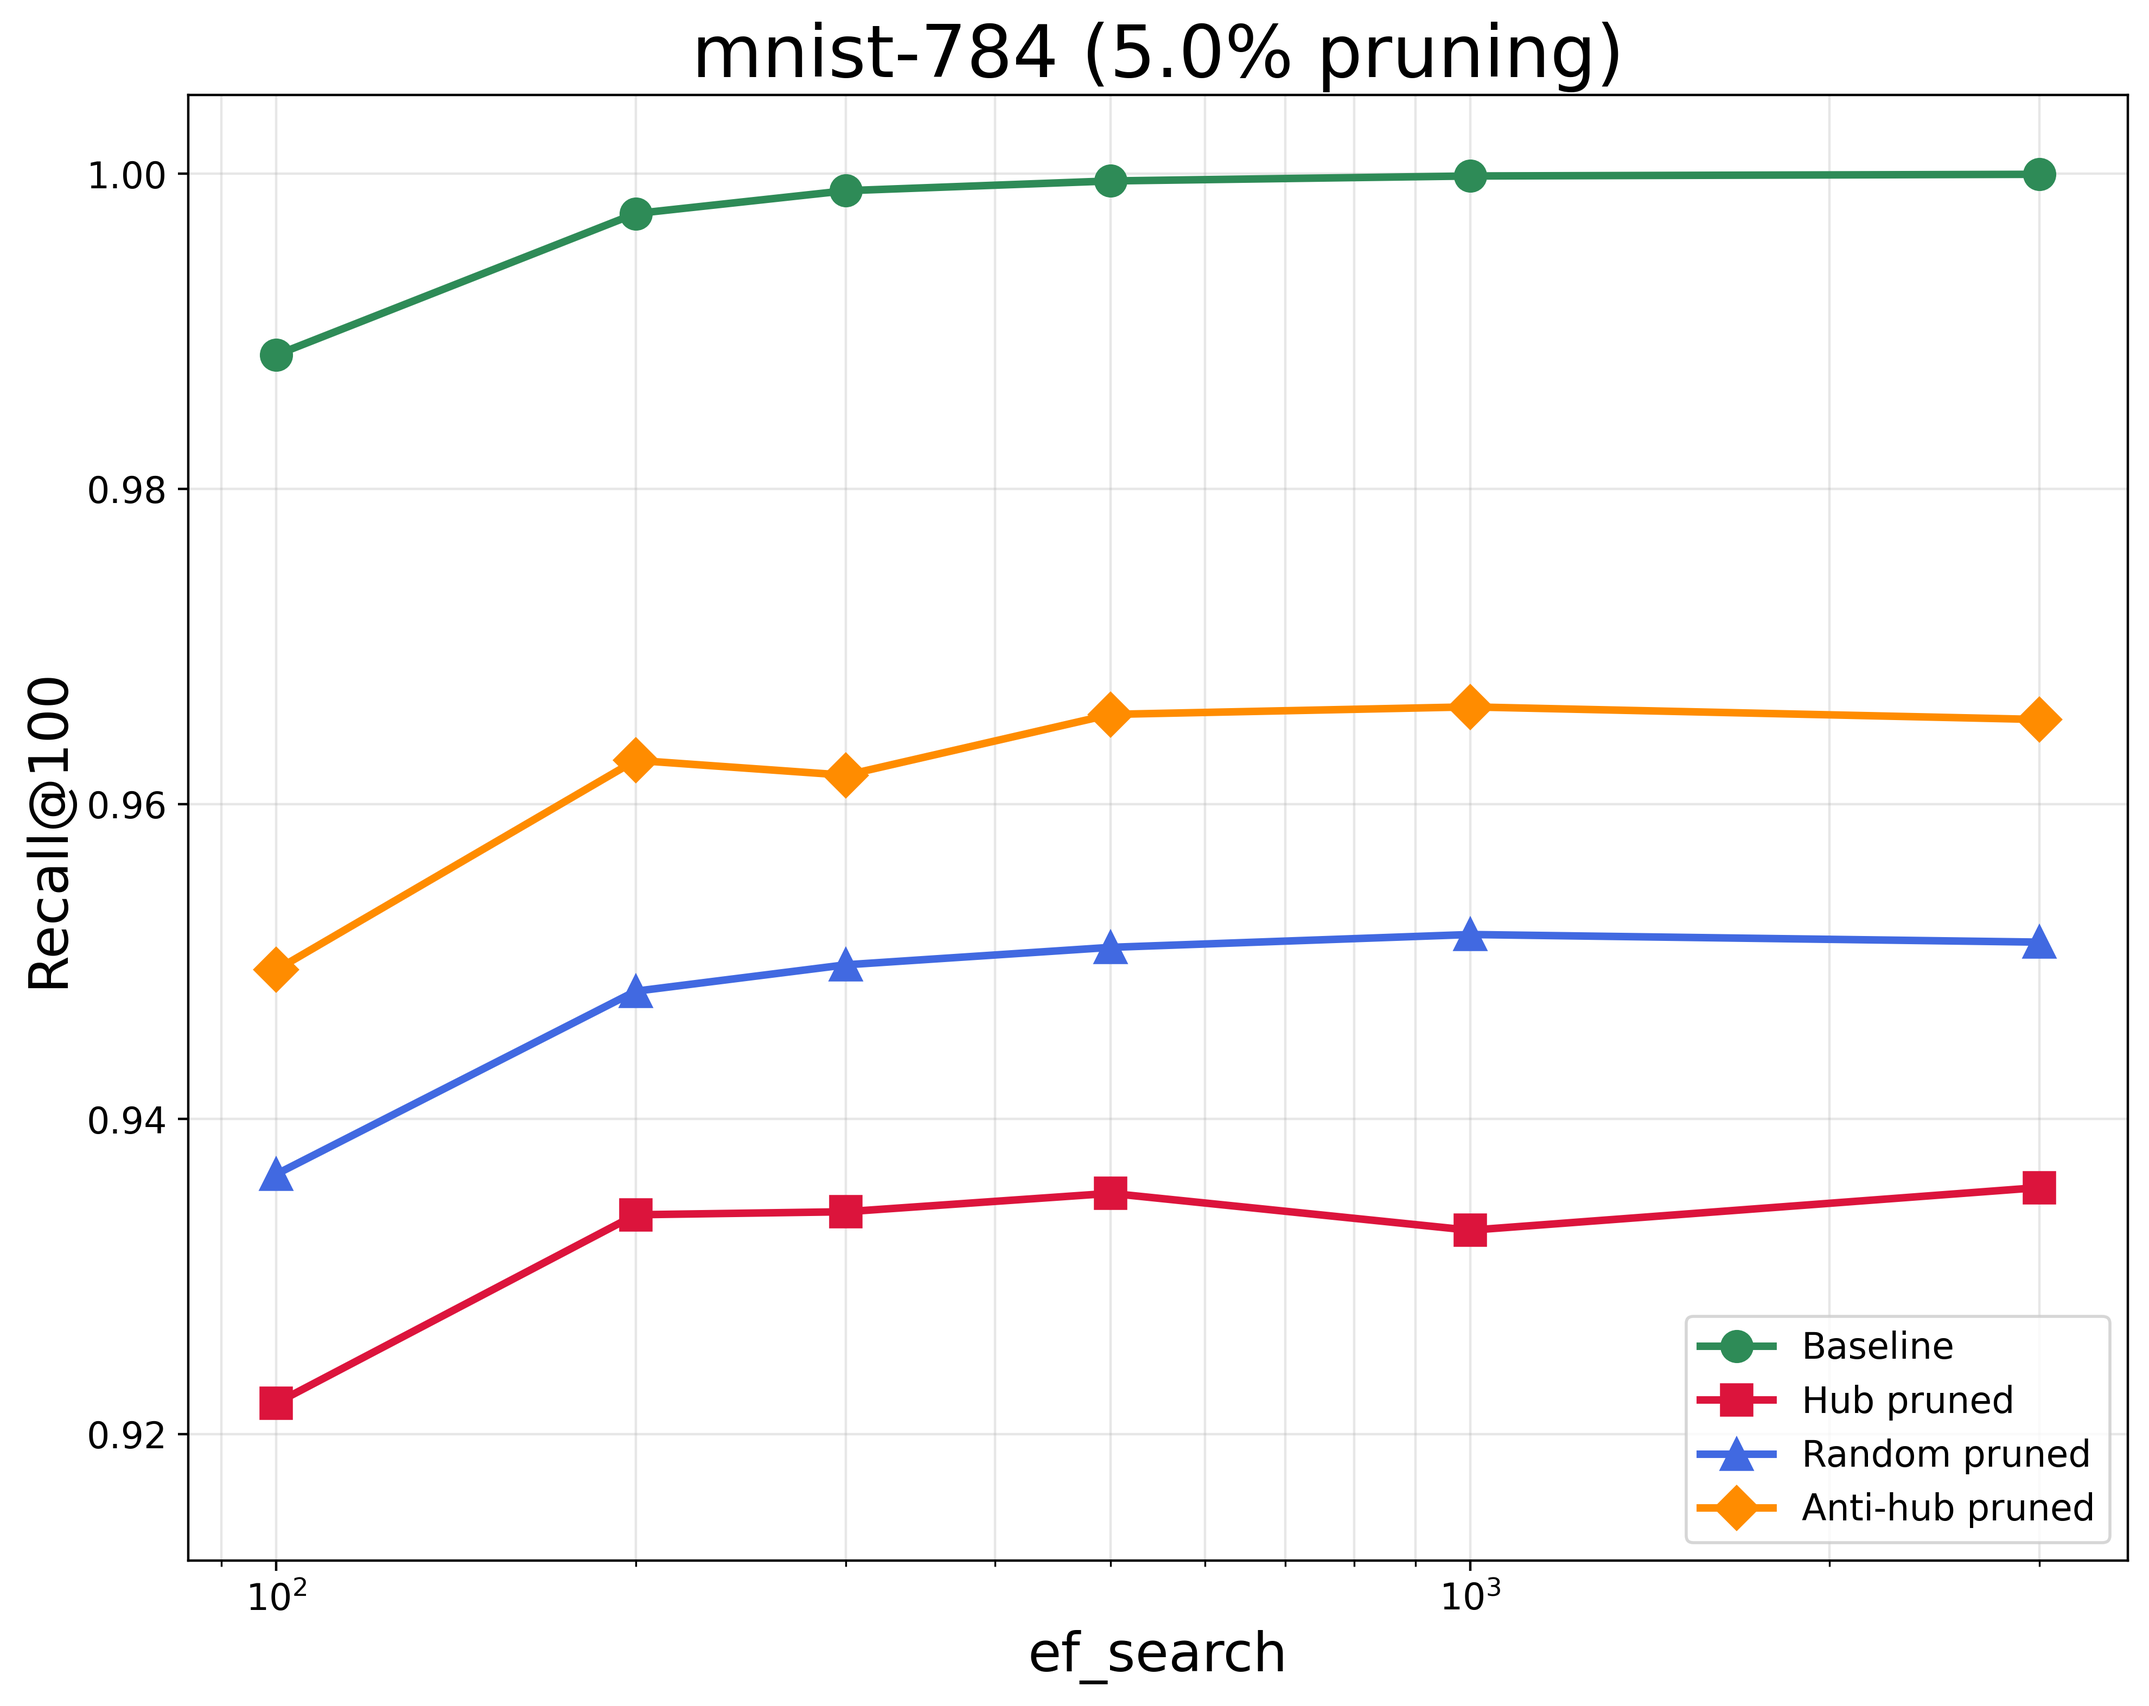
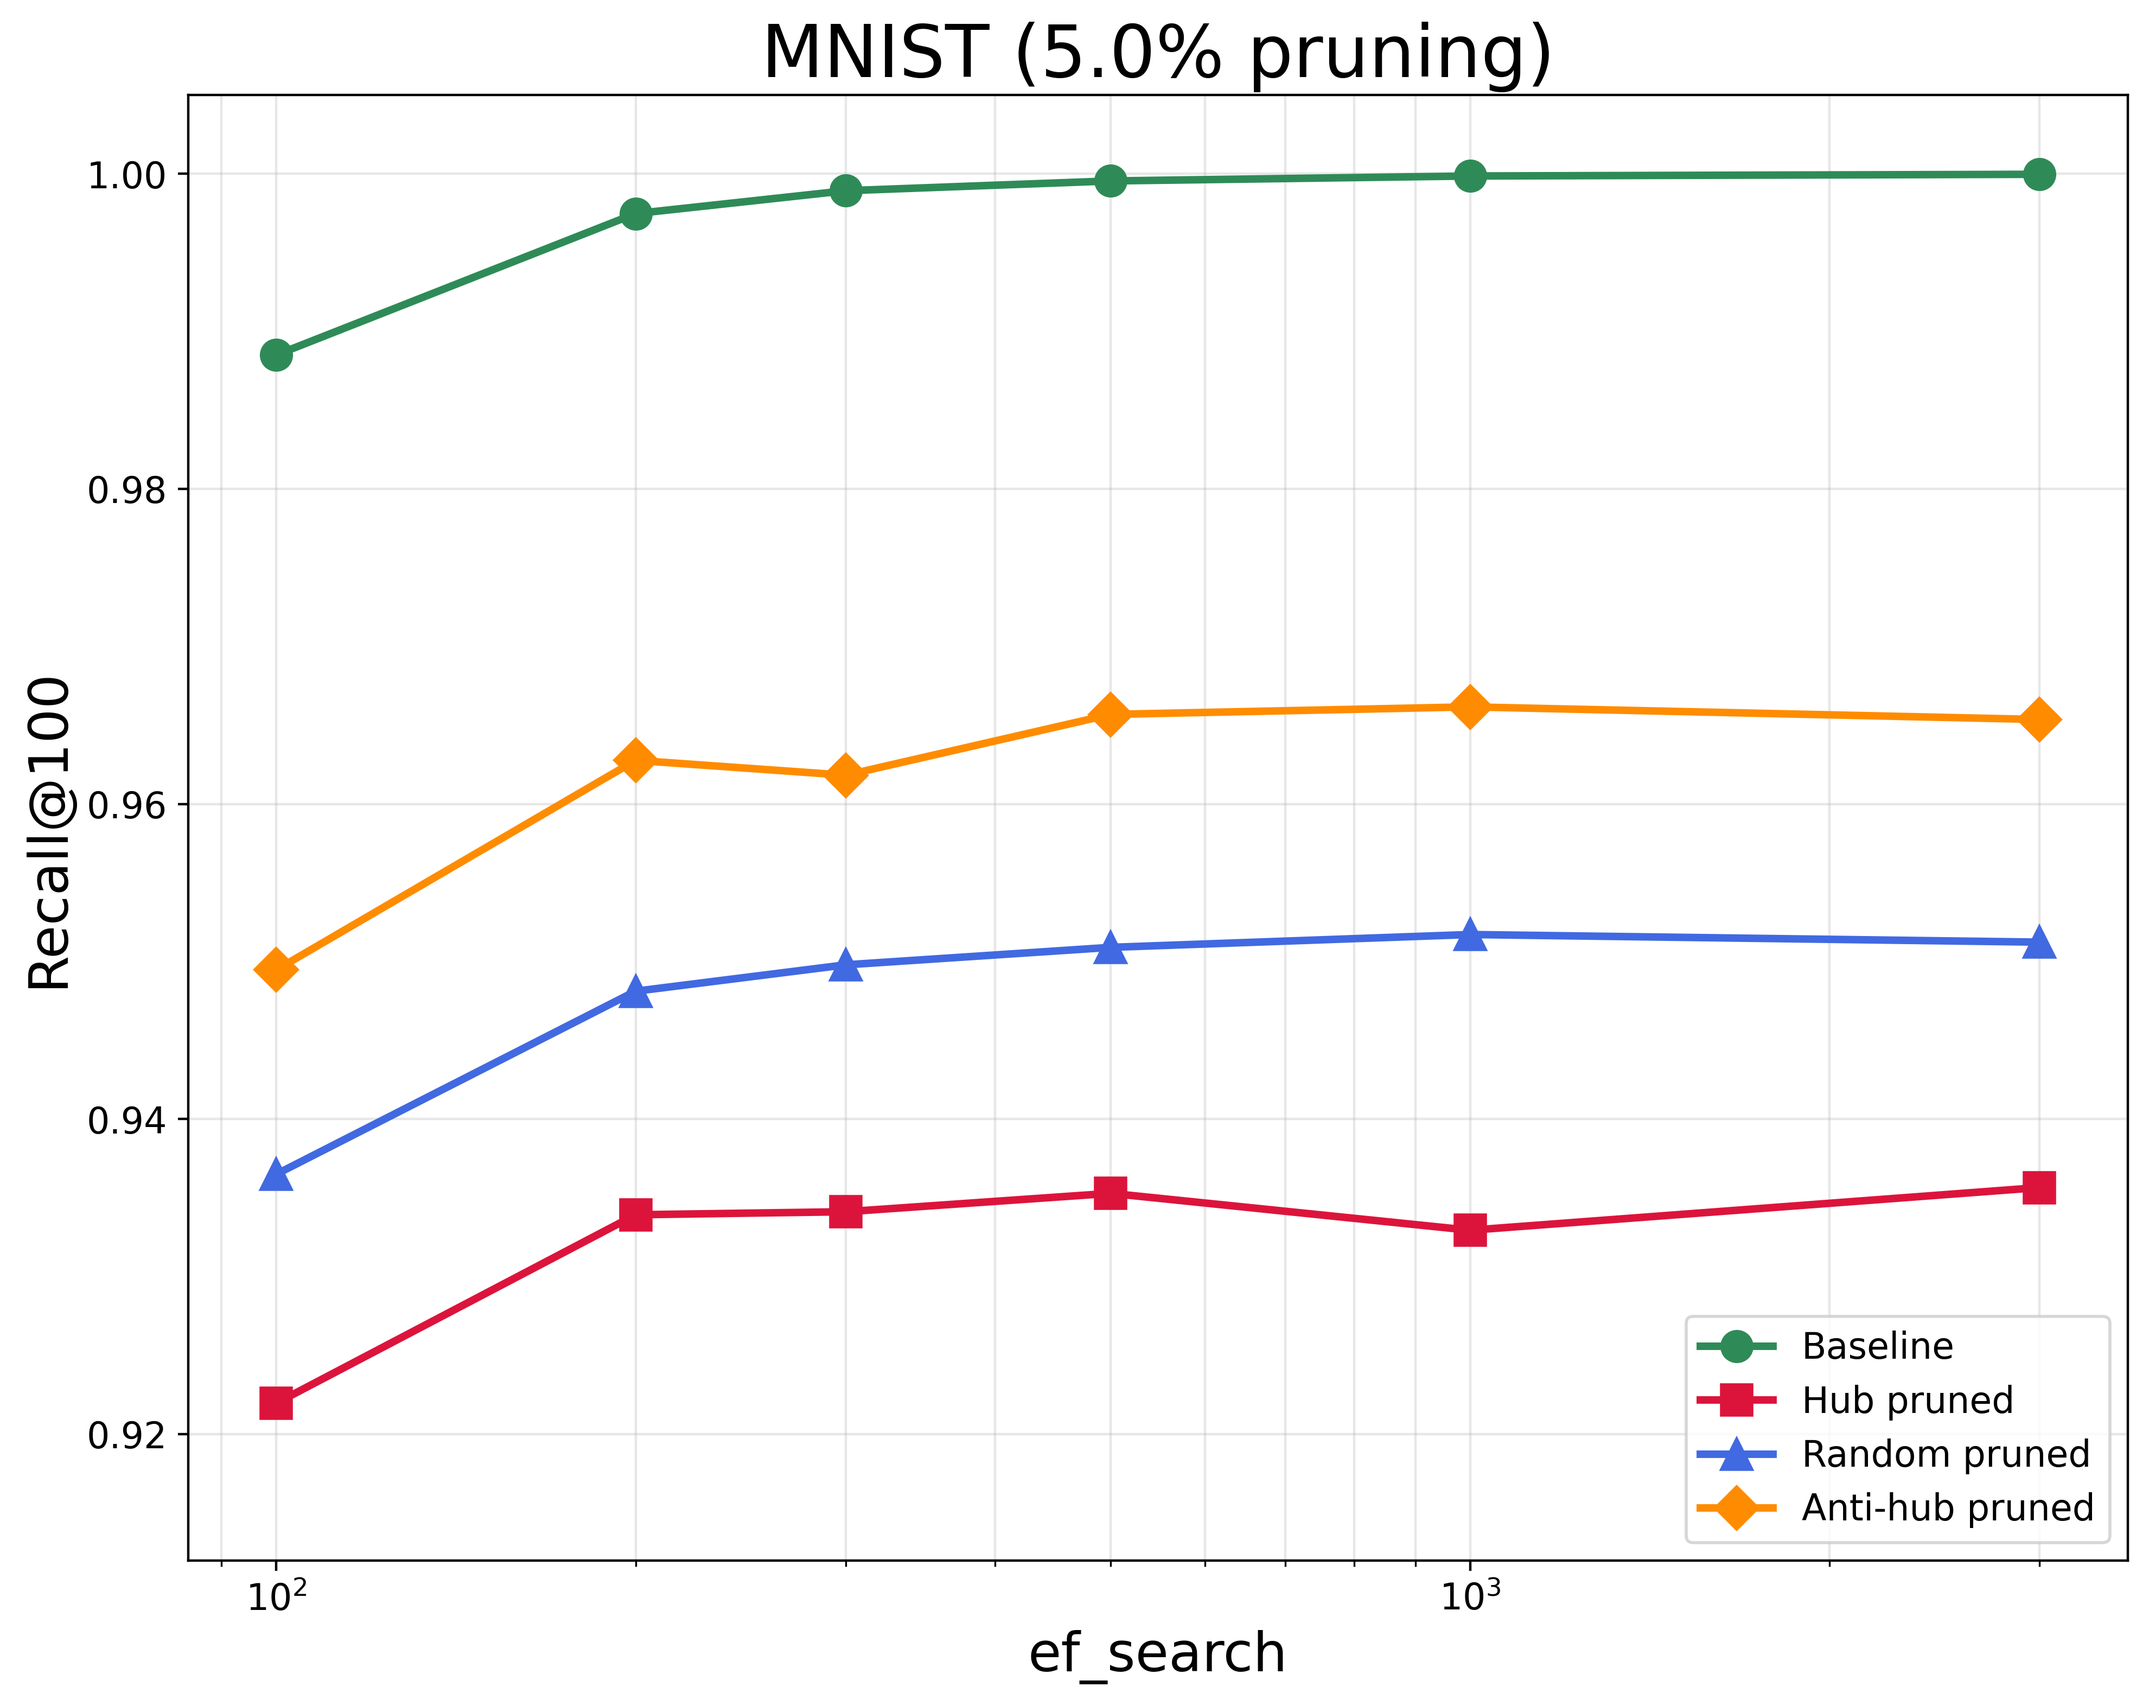
dataset names

Changed region(s): [[0.3416, 0.0, 0.7453, 0.0623]]

diff --git a/experiments/plot_pruning_comparison.py b/experiments/plot_pruning_comparison.py
@@ -39,6 +39,33 @@ LABELS = {
     "anti_hub_pruned": "Anti-hub pruned"
 }
 
+# Dataset display names
+DATASET_NAMES = {
+    "deep-image-96": "DEEP",
+    "deep-image": "DEEP",
+    "gist-960": "GIST",
+    "gist": "GIST",
+    "mnist-784": "MNIST",
+    "mnist": "MNIST",
+    "nytimes-256": "NY-Times (Angular)",
+    "nytimes": "NY-Times (Angular)",
+    "sift-128": "SIFT",
+    "sift": "SIFT",
+}
+
+
+def get_display_name(dataset_name: str) -> str:
+    """Get the display name for a dataset."""
+    # Check exact match first
+    if dataset_name in DATASET_NAMES:
+        return DATASET_NAMES[dataset_name]
+    # Check if any key is contained in the dataset name
+    for key, display in DATASET_NAMES.items():
+        if key in dataset_name.lower():
+            return display
+    # Return original if no match
+    return dataset_name
+
 MARKERS = {
     "baseline": "o",
     "hub_pruned": "s",
@@ -140,7 +167,7 @@ def plot_recall_vs_qps(data: Dict[str, List[Dict]], dataset_name: str,
 
     ax.set_xlabel("Recall@100", fontsize=AXIS_LABEL_FONTSIZE)
     ax.set_ylabel("Queries per Second (QPS)", fontsize=AXIS_LABEL_FONTSIZE)
-    ax.set_title(f"{dataset_name} ({pruning_pct}% pruning)", fontsize=TITLE_FONTSIZE)
+    ax.set_title(f"{get_display_name(dataset_name)} ({pruning_pct}% pruning)", fontsize=TITLE_FONTSIZE)
     ax.tick_params(axis='both', which='major', labelsize=TICK_FONTSIZE)
     ax.legend(loc="best", fontsize=LEGEND_FONTSIZE)
     ax.grid(True, which='both', alpha=0.3)
@@ -179,7 +206,7 @@ def plot_recall_vs_ef_search(data: Dict[str, List[Dict]], dataset_name: str,
 
     ax.set_xlabel("ef_search", fontsize=AXIS_LABEL_FONTSIZE)
     ax.set_ylabel("Recall@100", fontsize=AXIS_LABEL_FONTSIZE)
-    ax.set_title(f"{dataset_name} ({pruning_pct}% pruning)", fontsize=TITLE_FONTSIZE)
+    ax.set_title(f"{get_display_name(dataset_name)} ({pruning_pct}% pruning)", fontsize=TITLE_FONTSIZE)
     ax.tick_params(axis='both', which='major', labelsize=TICK_FONTSIZE)
     ax.legend(loc="lower right", fontsize=LEGEND_FONTSIZE)
     ax.grid(True, which='both', alpha=0.3)
@@ -253,7 +280,7 @@ def plot_recall_degradation(data: Dict[str, List[Dict]], dataset_name: str,
 
     ax.set_xlabel("ef_search", fontsize=AXIS_LABEL_FONTSIZE)
     ax.set_ylabel("Recall Degradation (%)", fontsize=AXIS_LABEL_FONTSIZE)
-    ax.set_title(f"{dataset_name} - Recall Degradation ({pruning_pct}% pruning)", fontsize=TITLE_FONTSIZE)
+    ax.set_title(f"{get_display_name(dataset_name)} - Recall Degradation ({pruning_pct}% pruning)", fontsize=TITLE_FONTSIZE)
     ax.set_xticks(x)
     ax.set_xticklabels(ef_values, fontsize=TICK_FONTSIZE)
     ax.tick_params(axis='y', labelsize=TICK_FONTSIZE)
@@ -295,7 +322,7 @@ def plot_single_dataset_on_ax(ax, data: Dict[str, List[Dict]], dataset_name: str
                 label=LABELS[exp_type])
 
     ax.tick_params(axis='both', which='major', labelsize=TICK_FONTSIZE)
-    ax.set_title(dataset_name, fontsize=TITLE_FONTSIZE)
+    ax.set_title(get_display_name(dataset_name), fontsize=TITLE_FONTSIZE)
     ax.grid(True, which='both', alpha=0.3)
     ax.legend(fontsize=LEGEND_FONTSIZE - 2, loc='best')
 
@@ -458,7 +485,7 @@ def plot_tradeoff_summary(data: Dict[str, List[Dict]], dataset_name: str,
 
     ax.set_xlabel('Pruning Strategy', fontsize=AXIS_LABEL_FONTSIZE)
     ax.set_ylabel('Average Change (%)', fontsize=AXIS_LABEL_FONTSIZE)
-    ax.set_title(f'{dataset_name}\nRecall Loss vs QPS Change ({pruning_pct}% pruning)',
+    ax.set_title(f'{get_display_name(dataset_name)}\nRecall Loss vs QPS Change ({pruning_pct}% pruning)',
                  fontsize=TITLE_FONTSIZE)
     ax.set_xticks(x)
     ax.set_xticklabels([LABELS[m] for m in methods], fontsize=TICK_FONTSIZE)
@@ -546,10 +573,12 @@ def plot_combined_tradeoff(all_data: Dict[str, Tuple[Dict, float]], output_dir: 
     ax1.set_ylabel('Recall Loss (%)', fontsize=AXIS_LABEL_FONTSIZE)
     ax1.set_title('Recall Loss by Pruning Strategy', fontsize=TITLE_FONTSIZE)
     ax1.set_xticks(x)
-    ax1.set_xticklabels(datasets_with_data, fontsize=TICK_FONTSIZE, rotation=15, ha='right')
+    ax1.set_xticklabels([get_display_name(d) for d in datasets_with_data], fontsize=TICK_FONTSIZE, rotation=15, ha='right')
     ax1.tick_params(axis='y', labelsize=TICK_FONTSIZE)
     ax1.legend(fontsize=LEGEND_FONTSIZE)
     ax1.grid(True, alpha=0.3, axis='y')
+    ax1.set_ylim(0, 100)
+    ax1.set_yticks([0, 20, 40, 60, 80, 100])
 
     # Plot 2: QPS Change by pruning strategy
     ax2 = axes[1]
@@ -565,10 +594,12 @@ def plot_combined_tradeoff(all_data: Dict[str, Tuple[Dict, float]], output_dir: 
     ax2.set_ylabel('QPS Change (%)', fontsize=AXIS_LABEL_FONTSIZE)
     ax2.set_title('QPS Change by Pruning Strategy', fontsize=TITLE_FONTSIZE)
     ax2.set_xticks(x)
-    ax2.set_xticklabels(datasets_with_data, fontsize=TICK_FONTSIZE, rotation=15, ha='right')
+    ax2.set_xticklabels([get_display_name(d) for d in datasets_with_data], fontsize=TICK_FONTSIZE, rotation=15, ha='right')
     ax2.tick_params(axis='y', labelsize=TICK_FONTSIZE)
     ax2.legend(fontsize=LEGEND_FONTSIZE)
     ax2.grid(True, alpha=0.3, axis='y')
+    ax2.set_ylim(0, 100)
+    ax2.set_yticks([0, 20, 40, 60, 80, 100])
 
     plt.tight_layout()
 
@@ -591,7 +622,7 @@ def plot_summary_table(data: Dict[str, List[Dict]], dataset_name: str,
     ef_search = data["baseline"][0]["ef_search"]
 
     print(f"\n{'='*60}")
-    print(f"Summary for {dataset_name} at ef_search={ef_search} ({pruning_pct}% pruning)")
+    print(f"Summary for {get_display_name(dataset_name)} at ef_search={ef_search} ({pruning_pct}% pruning)")
     print(f"{'='*60}")
     print(f"{'Method':<25} {'Recall':>10} {'QPS':>10} {'Drop %':>10}")
     print(f"{'-'*60}")
